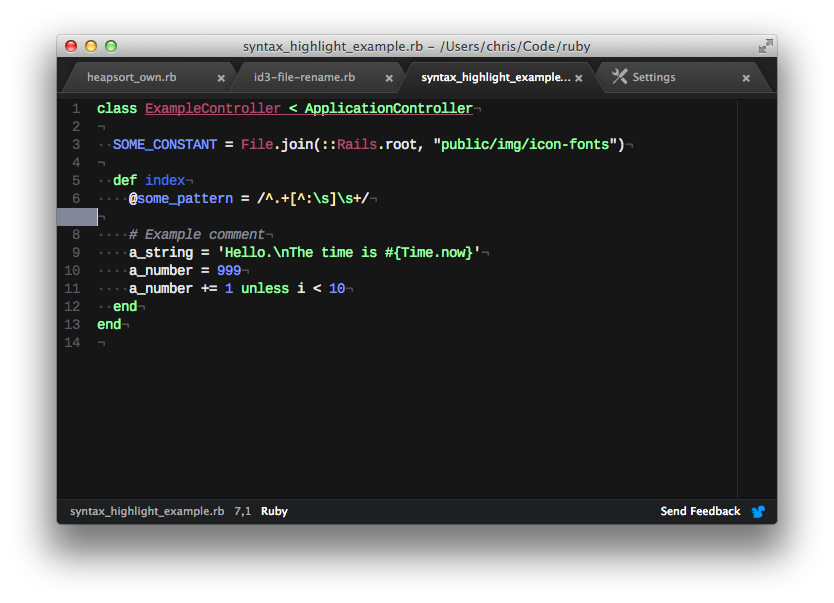
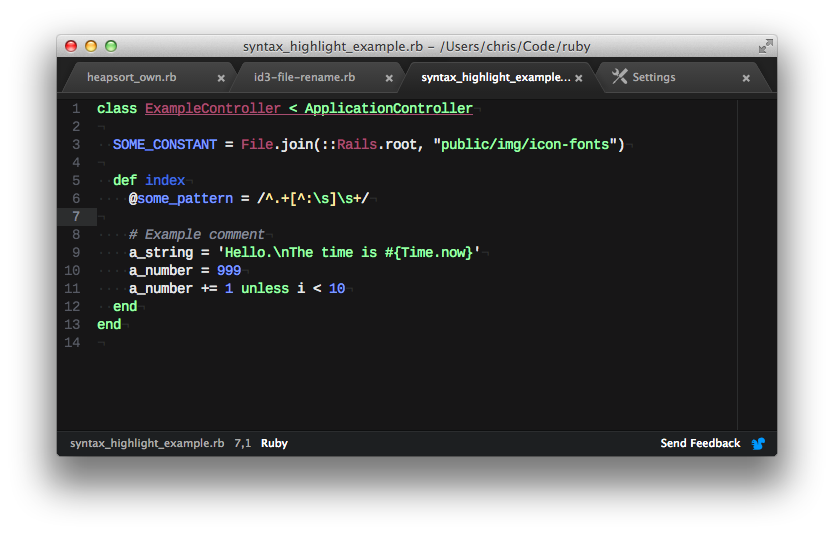
Update @syntax-gutter-background-color-selected

Changed region(s): [[0.0624, 0.0598, 0.9353, 0.6579], [0.0624, 0.8075, 0.9353, 0.8972]]

diff --git a/stylesheets/syntax-variables.less b/stylesheets/syntax-variables.less
@@ -22,7 +22,7 @@
 @syntax-gutter-text-color: @grey;
 @syntax-gutter-text-color-selected: @syntax-gutter-text-color;
 @syntax-gutter-background-color: @darkrock;
-@syntax-gutter-background-color-selected: @grey;
+@syntax-gutter-background-color-selected: @rock;
 
 // For git diff info. i.e. in the gutter
 @syntax-color-renamed: @cobalt;
